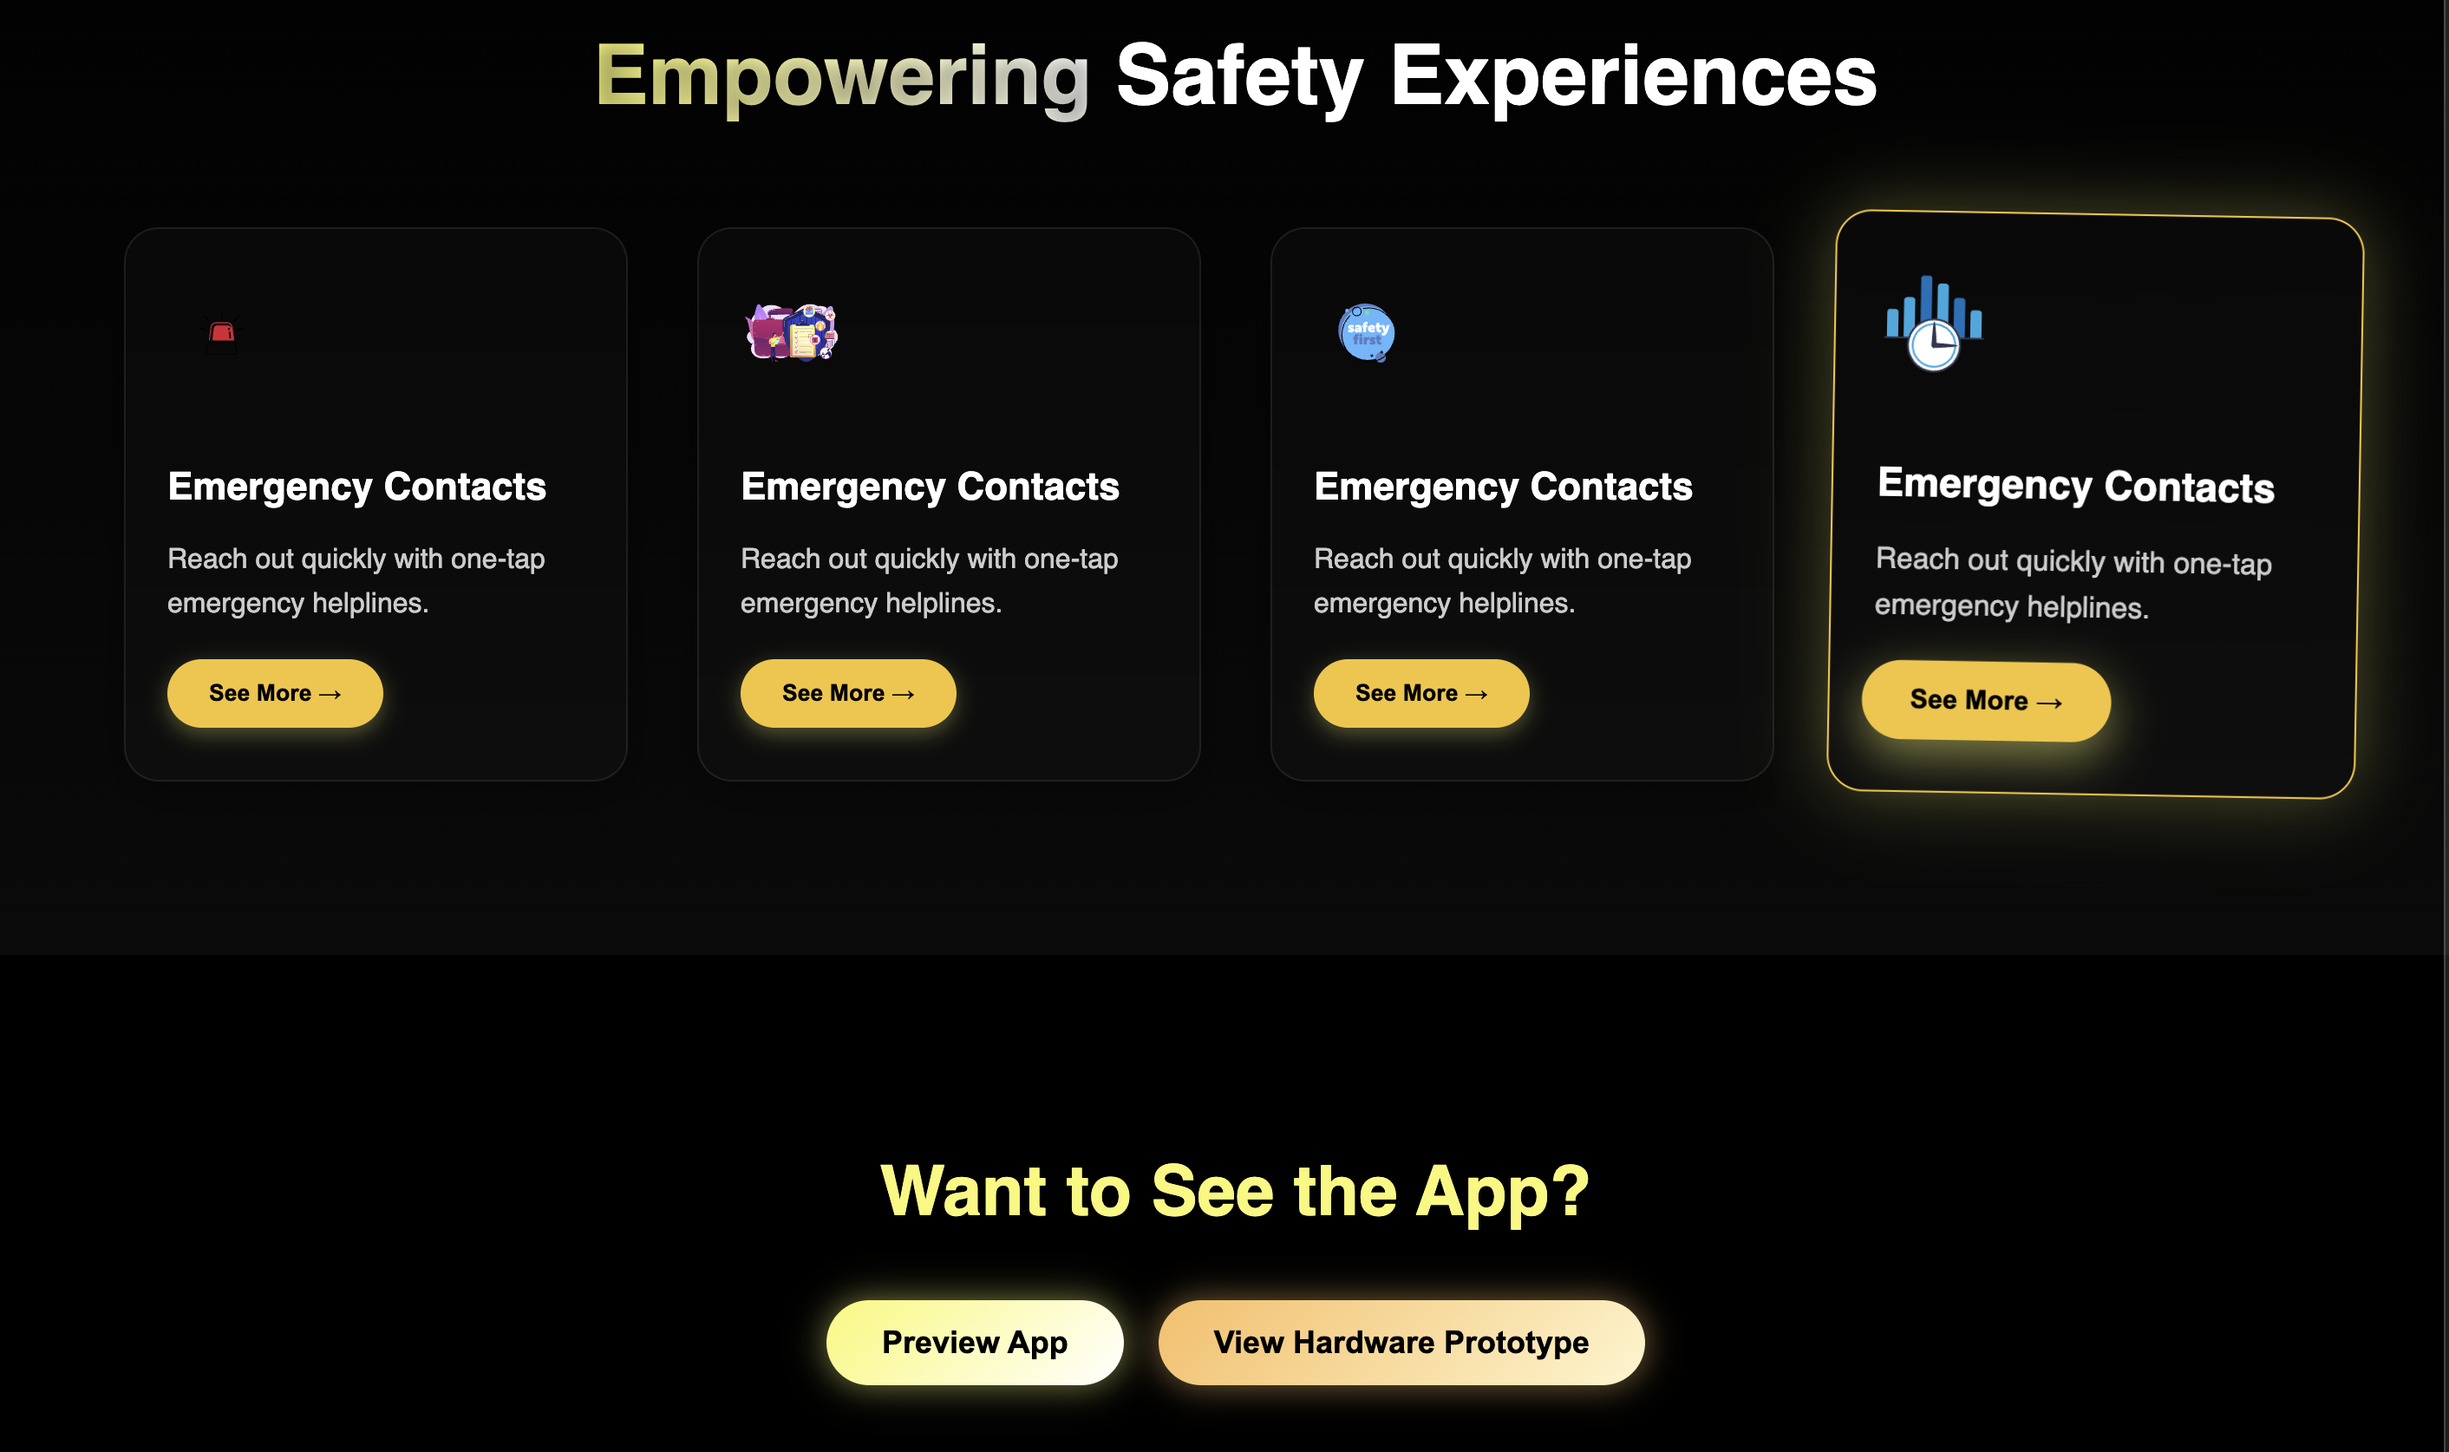
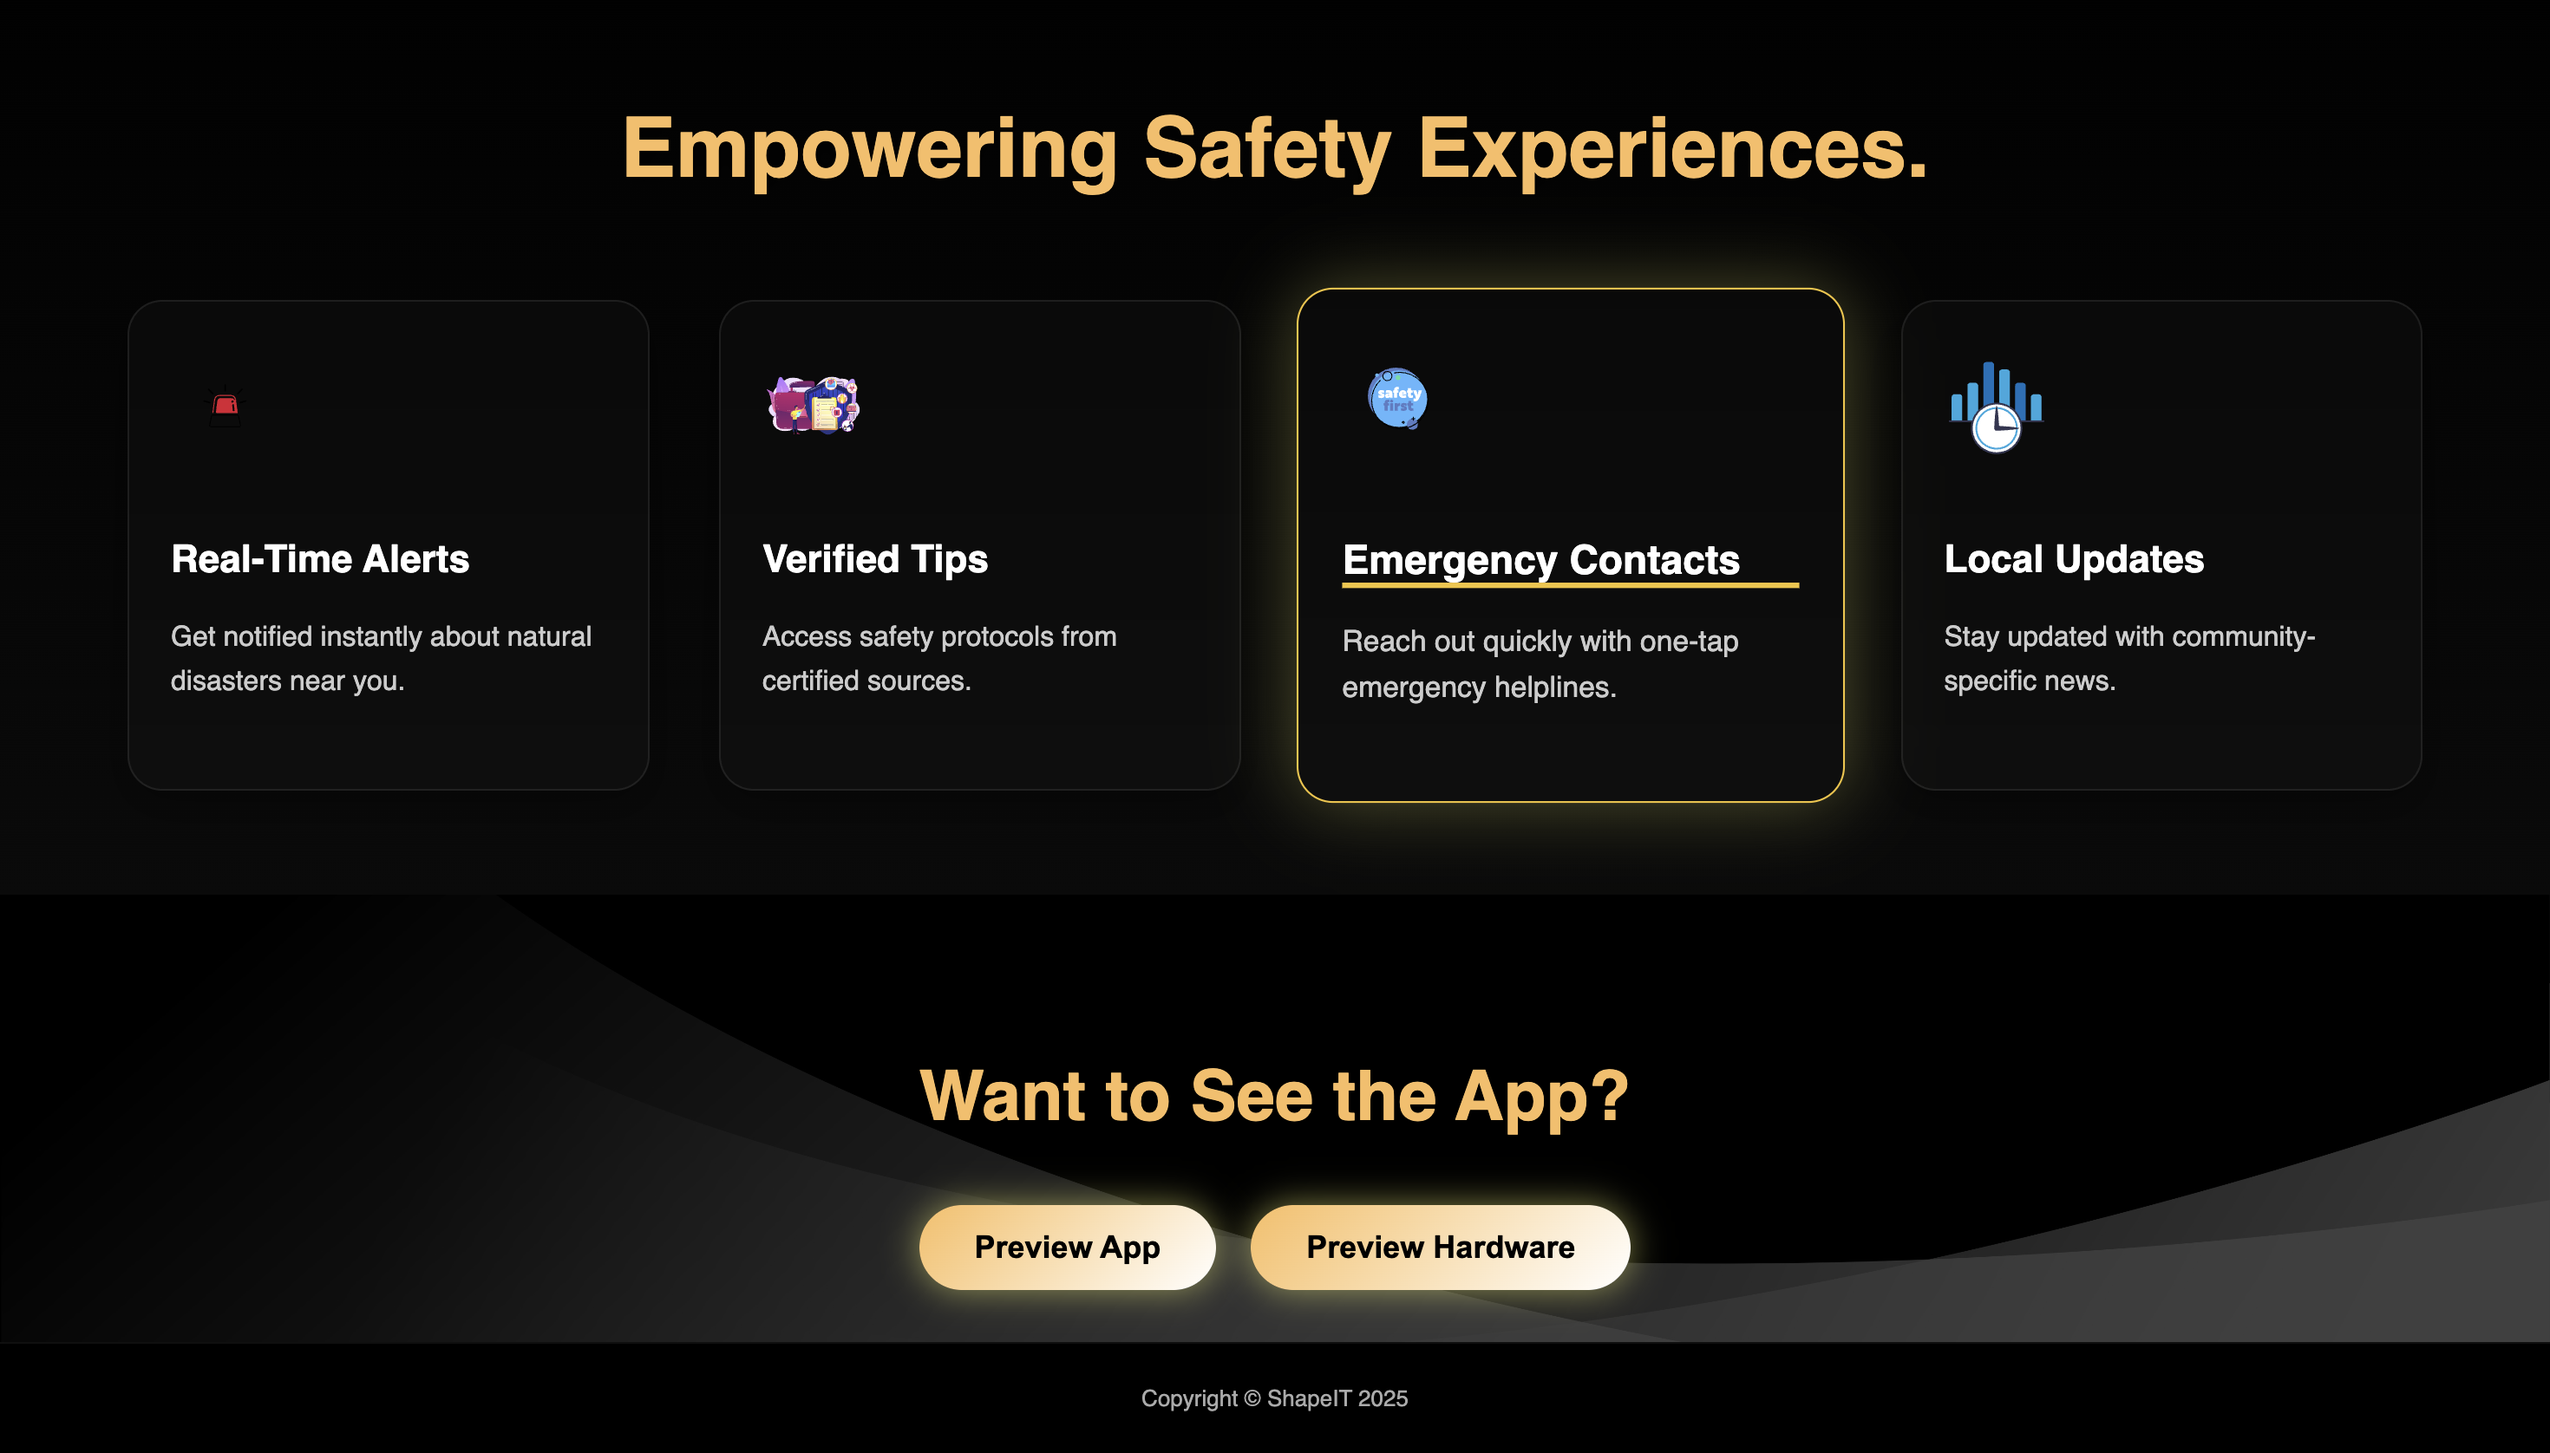
Required updates have been made

diff --git a/src/components/HeroSection.css b/src/components/HeroSection.css
@@ -1,6 +1,5 @@
 @import url('https://fonts.googleapis.com/css2?family=Outfit:wght@400;600;700&display=swap');
 
-
 .hero {
   position: relative;
   height: 100vh;
@@ -10,15 +9,15 @@
   background-position: center;
   background-repeat: no-repeat;
   background-color: #000;
-  /* fallback if image fails */
   display: flex;
   justify-content: center;
   align-items: center;
   text-align: center;
   font-family: 'Outfit', sans-serif;
   overflow: hidden;
-  padding: 0 20px;
+  padding: 0 16px; /* uniform horizontal padding */
   color: #fff;
+  box-sizing: border-box;
 }
 
 .hero-content {
@@ -28,32 +27,24 @@
 }
 
 .hero-title {
-  font-size: 92px;
+  font-size: 90px;
   font-weight: 700;
   color: #fffef5;
   margin-bottom: 0.5em;
+  text-shadow: 0 2px 8px rgba(0, 0, 0, 0.6);
   white-space: nowrap;
   overflow: hidden;
-  border-right: 4px solid #fabd60;
-  width: 0;
-  animation: typing 3s steps(30, end) forwards, blink 0.75s step-end infinite;
-  text-shadow: 0 2px 8px rgba(0, 0, 0, 0.6);
 }
 
-@keyframes typing {
-  from {
-    width: 0;
-  }
-
-  to {
-    width: 100%;
-  }
+.cursor {
+  display: inline-block;
+  color: #fabd60;
+  animation: blink 1s step-end infinite;
 }
 
 @keyframes blink {
-  50% {
-    border-color: transparent;
-  }
+  0%, 100% { opacity: 1; }
+  50% { opacity: 0; }
 }
 
 .hero-subtitle {
@@ -98,7 +89,6 @@
     transform: translateY(20px);
     filter: blur(4px);
   }
-
   to {
     opacity: 1;
     transform: translateY(0);
@@ -106,17 +96,80 @@
   }
 }
 
-/* Responsive */
-@media (max-width: 768px) {
+/* Tablet & Small Laptops */
+@media (max-width: 1024px) {
   .hero-title {
-    font-size: 40px;
+    font-size: 64px;
   }
 
   .hero-subtitle {
+    font-size: 28px;
+  }
+
+  .hero-tagline {
     font-size: 22px;
+  }
+
+  .glass-tagline {
+    padding: 20px 28px;
+  }
+}
+
+/* Tablets & Large Phones */
+@media (max-width: 768px) {
+  .hero {
+    padding: 0 14px;
+  }
+
+  .hero-title {
+    font-size: 48px;
+    text-align: center;
+    white-space: normal;
+  }
+
+  .hero-subtitle {
+    font-size: 20px;
   }
 
   .hero-tagline {
     font-size: 18px;
+  }
+
+  .glass-tagline {
+    padding: 16px 20px;
+    border-radius: 16px;
+  }
+
+  .hero-content {
+    padding: 20px 0;
+  }
+}
+
+/* Smaller Phones */
+@media (max-width: 480px) {
+  .hero {
+    padding: 0 12px;
+  }
+
+  .hero-title {
+    font-size: 38px;
+    white-space: normal;
+  }
+
+  .hero-subtitle {
+    font-size: 18px;
+  }
+
+  .hero-tagline {
+    font-size: 16px;
+  }
+
+  .glass-tagline {
+    padding: 14px 16px;
+    border-radius: 14px;
+  }
+
+  .hero-content {
+    padding: 16px 0;
   }
 }

diff --git a/src/components/HeroSection.jsx b/src/components/HeroSection.jsx
@@ -1,12 +1,31 @@
-import React from "react";
+import React, { useEffect, useState } from "react";
 import "./HeroSection.css";
 import { motion } from "framer-motion";
 
 const HeroSection = () => {
+  const fullTitle = "  The Sikkim Sentinel";
+  const [typedText, setTypedText] = useState("");
+
+  useEffect(() => {
+    let index = 0;
+    const timer = setInterval(() => {
+      if (index < fullTitle.length) {
+        setTypedText((prev) => prev + fullTitle.charAt(index));
+        index++;
+      } else {
+        clearInterval(timer);
+      }
+    }, 100);
+    return () => clearInterval(timer);
+  }, []);
+
   return (
     <section className="hero">
       <div className="hero-content">
-        <h1 className="hero-title typewriter">The Sikkim Sentinel</h1>
+        <h1 className="hero-title">
+          {typedText}
+          <span className="cursor">|</span>
+        </h1>
 
         <motion.p
           className="hero-subtitle"
@@ -17,6 +36,7 @@ const HeroSection = () => {
         >
           Your Safety, Our Priority
         </motion.p>
+
         <motion.div
           className="glass-tagline"
           initial={{ opacity: 0, y: 30 }}
@@ -30,7 +50,6 @@ const HeroSection = () => {
             <span className="highlight"> emergency access</span>.
           </p>
         </motion.div>
-
       </div>
     </section>
   );

diff --git a/src/components/FigmaModal.jsx b/src/components/FigmaModal.jsx
@@ -1,10 +1,22 @@
-import React, { useState } from "react";
+import React, { useState, useEffect } from "react";
 import { motion } from "framer-motion";
 import "./FigmaModal.css";
 
 const FigmaModal = () => {
   const [isAppOpen, setAppOpen] = useState(false);
   const [isHardwareOpen, setHardwareOpen] = useState(false);
+
+  useEffect(() => {
+    if (isAppOpen || isHardwareOpen) {
+      document.body.style.overflow = "hidden";
+    } else {
+      document.body.style.overflow = "auto";
+    }
+
+    return () => {
+      document.body.style.overflow = "auto";
+    };
+  }, [isAppOpen, isHardwareOpen]);
 
   return (
     <section className="preview-section">
@@ -31,14 +43,14 @@ const FigmaModal = () => {
         </motion.button>
 
         <motion.button
-          className="preview-button secondary"
+          className="preview-button"
           onClick={() => setHardwareOpen(true)}
           initial={{ opacity: 0, y: 30 }}
           whileInView={{ opacity: 1, y: 0 }}
-          transition={{ duration: 0.5, delay: 0.3, ease: "easeOut" }}
+          transition={{ duration: 0.5, delay: 0.2, ease: "easeOut" }}
           viewport={{ once: true, amount: 0.3 }}
         >
-          View Hardware Prototype
+          Preview Hardware
         </motion.button>
       </div>
 

diff --git a/src/components/FigmaModal.css b/src/components/FigmaModal.css
@@ -4,7 +4,7 @@
   background-repeat: no-repeat;
   background-position: bottom;
   text-align: center;
-  padding: 80px 20px 30px;
+  padding: 60px 20px 30px;
   position: relative;
   z-index: 1;
 }
@@ -19,13 +19,13 @@
 
 .preview-heading {
   font-size: 40px;
-  color: #f9f871;
+  color: #fabd60;
   margin-bottom: 40px;
 }
 
 .preview-button {
   font-size: 18px;
-  background: linear-gradient(135deg, #f9f871, #fff);
+  background: linear-gradient(135deg, #fabd60, #fff);
   color: #000;
   padding: 14px 32px;
   border: none;
@@ -104,8 +104,8 @@
 
 .close-button {
   position: absolute;
-  top: 3px;
-  right: 3px;
+  top: 15px;
+  right: 15px;
   background: #f9f871;
   color: #000;
   font-size: 1.2rem;
@@ -121,11 +121,6 @@
   flex-wrap: wrap;
   gap: 20px;
   justify-content: center;
-}
-
-.preview-button.secondary {
-  background: linear-gradient(135deg, #f9f871, #fff);
-  box-shadow: 0 0 20px #fabd6088;
 }
 
 .preview-button.secondary:hover {
@@ -188,5 +183,13 @@
     font-size: 1rem;
     top: 5px;
     right: 5px;
+  }
+}
+
+@media (max-width: 400px) {
+  .hardware-video-wrapper {
+    width: 100vw;
+    aspect-ratio: 9 / 16; 
+    border-radius: 0;
   }
 }

diff --git a/src/components/BoostCards.jsx b/src/components/BoostCards.jsx
@@ -17,7 +17,7 @@ const BoostCards = forwardRef((props, ref) => {
   const cards = [
     {
       title: "Real-Time Alerts",
-      description: "Get notified instantly about natural disasters near you.",
+      description: "Get notified instantly about natural disasters near you.      ",
       img: "/assets/alert.svg"
     },
     {
@@ -32,7 +32,7 @@ const BoostCards = forwardRef((props, ref) => {
     },
     {
       title: "Local Updates",
-      description: "Stay updated with community-specific news.",
+      description: "Stay updated with community-specific news.           ",
       img: "/assets/updates.svg"
     }
   ];
@@ -66,8 +66,8 @@ const BoostCards = forwardRef((props, ref) => {
         transition={{ duration: 0.7, ease: "easeOut" }}
         viewport={{ once: true, amount: 0.3 }}
       >
-        <span className={styles.gradientText}>Empowering</span>{" "}
-        <span className={styles.gradientTextAlt}>Safety Experiences</span>
+        <span className={styles.gradientText}>Empowering Safety Experiences.</span>{" "}
+      
       </motion.h2>
 
       <div className={styles.grid}>

diff --git a/src/components/BoostCards.module.css b/src/components/BoostCards.module.css
@@ -1,22 +1,21 @@
 .boostSection {
   background: linear-gradient(180deg, #000 0%, #0a0a0a 100%);
-  padding: 100px 5vw 40px;
+  padding: 100px 5vw 60px;
   text-align: center;
 }
 
 .heading {
   font-size: 48px;
-  color:  #f4c430;
+  color:  #fabd60;
   margin-bottom: 60px;
   font-weight: 800;
   text-shadow: 0 2px 10px rgba(0, 0, 0, 0.4);
 }
 
 .gradientText {
-  background: linear-gradient(90deg, #ff914d, #ffde59);
-  background-clip: text;
-  -webkit-background-clip: text;
-  -webkit-text-fill-color: transparent;
+  font-size: 48px;
+  color: #fabd60;
+  margin-bottom: 40px;
 }
 .card h3::after {
   content: '';

diff --git a/src/styles/App.css b/src/styles/App.css
@@ -18,6 +18,6 @@ html {
   color: #aaa;
   text-align: center;
   border-top: 1px solid rgba(255, 255, 255, 0.06);
-  line-height: 1;
+  line-height: 3;
   margin-top: auto;
 }
